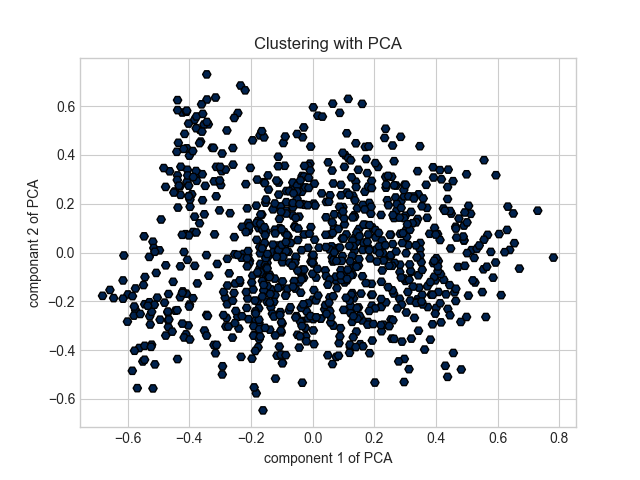
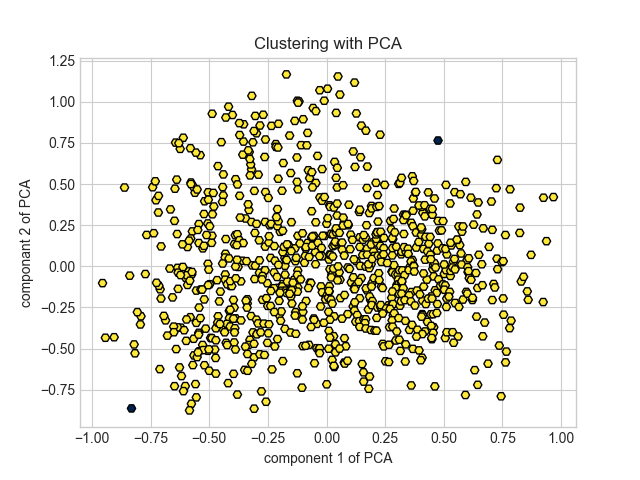
dbscan working

diff --git a/IHM.py b/IHM.py
@@ -1056,7 +1056,7 @@ class Point:
         self.instance=instance
         self.marked=False
         self.cluster=False
-        
+         
 def Voisinage(P,radius,methode_d, dataset):
     voisins=[]
     for i in range(dataset.shape[0]):
@@ -1068,7 +1068,7 @@ def DB_Scan(radius,min_points,methode_d, dataset):
     C = 0
     Outlier=[]
     dataset_labeled=[]
-    listeP=[ Point(instance) for instance in dataset[:,:]]
+    listeP=[ Point(instance) for instance in dataset]
     
     for P in listeP:
         if not P.marked:
@@ -1383,8 +1383,8 @@ class App:
 
         return f"confusion_matrix_{model}.png"
 
-    def clustering_plots(self, component1, component2, result):
-        plt.scatter(component1, component2, c=result, cmap='cividis', marker='H', edgecolors='k')
+    def clustering_plots(self, res0, res):
+        plt.scatter([r[0] for r in res0], [r[1] for r in res0], c=res, cmap='cividis', marker='H', edgecolors='k')
         plt.title('Clustering with PCA')
         plt.xlabel('component 1 of PCA')
         plt.ylabel('componant 2 of PCA')
@@ -1500,18 +1500,20 @@ class App:
 
         else:
             DBSCANClustering=DB_Scan(radius_db, min_samples_db, methode_d=metric, dataset=dataset)# 1.2 5 0.45  1/0/1
+            res0 = np.array(DBSCANClustering[0])
             res = np.array(DBSCANClustering[1])
+            print("result:", res)
 
             DBSCAN_labeled_dataset = np.concatenate((self.dataset1[:, :-1], res.reshape(-1, 1)), axis=1)
             labeled_dataset = pd.DataFrame(DBSCAN_labeled_dataset, columns=[f"feature_{i+1}" for i in range((DBSCAN_labeled_dataset.shape[1])-1)] + ["cluster_label"])
             
-        self.ClusteringMetrics = ClusteringMetrics(dataset, res)
-        silhouette_score, intra_distance, inter_distance = self.ClusteringMetrics.silhouette_score(dataset, res, metric)
+        self.ClusteringMetrics = ClusteringMetrics(res0, res)
+        silhouette_score, intra_distance, inter_distance = self.ClusteringMetrics.silhouette_score(res0, res, metric)
 
 
         if pca_clust=="Yes":
             plot1 = plt.figure()
-            self.clustering_plots(dataset[:, 0], dataset[:, 1], res)
+            self.clustering_plots(res0, res)
             plot1.savefig("clustering_PCA.png")
             plt.close(plot1)
             plot = ["clustering_PCA.png"]
